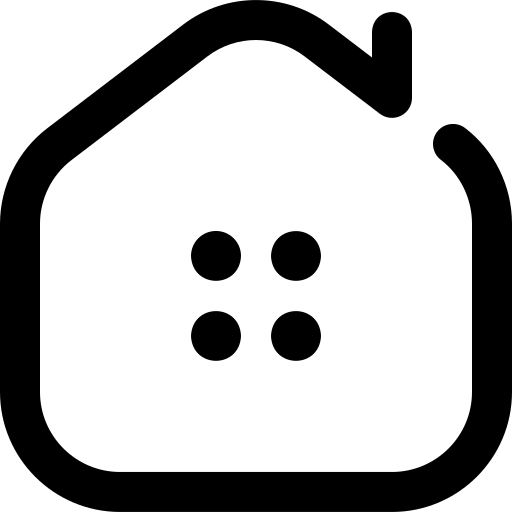
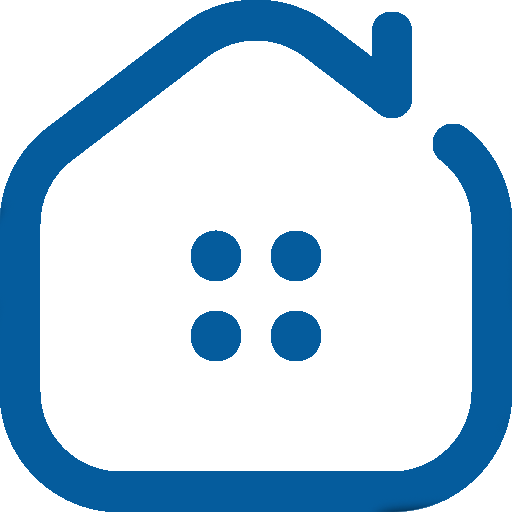
update

diff --git a/public/dist/css/custom.css b/public/dist/css/custom.css
@@ -12,7 +12,7 @@ body{
 }
 .card-header{
     border-radius: 20px 20px 0 0!important;
-    background-color: #189AB4 !important;
+    background-color: #68BBE3 !important;
 }
 
 .img-fluid{
@@ -52,7 +52,7 @@ body{
     width: .5rem !important;
     height: .5rem !important;
     border-radius: 100px !important;
-    background-color: black;
+    background-color: #055C9D !important;
 }
 .nav-active{
     max-height: 25px !important;
@@ -73,4 +73,8 @@ body{
 }
 .hero{
     margin-bottom: -15px !important;
+}
+.back-button{
+    border-radius: 0 15px 15px 0;
+    height: 3rem;
 }

diff --git a/database/seeds/AyatSeeder.php b/database/seeds/AyatSeeder.php
@@ -12,6 +12,7 @@ class AyatSeeder extends Seeder
     public function run()
     {
         DB::table('ayats')->insert([
+            'judul' => "tst",
             'firman' => 'Lorem ipsum dolor sit amet consectetur, adipisicing elit. Voluptatum illo et libero, sunt hic architecto aliquid ipsam cumque modi eveniet aperiam accusantium. Unde eius libero soluta vel suscipit architecto aut.Lorem ipsum dolor sit amet consectetur, adipisicing elit. Voluptatum illo et libero, sunt hic architecto aliquid ipsam cumque modi eveniet aperiam accusantium. Unde eius libero soluta vel suscipit architecto aut.Lorem ipsum dolor sit amet consectetur, adipisicing elit. Voluptatum illo et libero, sunt hic architecto aliquid ipsam cumque modi eveniet aperiam accusantium. Unde eius libero soluta vel suscipit architecto aut.Lorem ipsum dolor sit amet consectetur, adipisicing elit. Voluptatum illo et libero, sunt hic architecto aliquid ipsam cumque modi eveniet aperiam accusantium. Unde eius libero soluta vel suscipit architecto aut.Lorem ipsum dolor sit amet consectetur, adipisicing elit. Voluptatum illo et libero, sunt hic architecto aliquid ipsam cumque modi eveniet aperiam accusantium. Unde eius libero soluta vel suscipit architecto aut.',
             'wadah' => 'nelson@gmail.com'
         ]);

diff --git a/resources/views/profile/index.blade.php b/resources/views/profile/index.blade.php
@@ -1,6 +1,6 @@
 @extends('layout.layout')
 
-@section('content')
+@section('content') 
 
     <div class="container">
         <div class="row">&nbsp;</div>
@@ -13,7 +13,7 @@
                     <div class="col-4"></div>
                     <div class="col-4 2-100">
                         <div class="row">
-                            <img class="col-12 barcode" src="{{asset('assets/img/user.png')}}" alt="">
+                            <img class="col-12 barcode" src="{{asset('assets/img/user-black.png')}}" alt="">
                         </div>
                         <div class="row">
                             <p class="col-12 greeting text-center mt-2 p-0">{{$name}}</p>
@@ -29,7 +29,7 @@
         <hr>
         <div class="row ml-3 mb-3 mt-2">
            
-            <div class="col-2 p-0 m-0"><img class="col-12 icon " src="{{asset('assets/img/user.png')}}" alt=""></div> 
+            <div class="col-2 p-0 m-0"><img class="col-12 icon " src="{{asset('assets/img/user-black.png')}}" alt=""></div> 
             <div class="col-6 p-0"> <a href="{{Route('profile.create')}}" class=""><span class="text-decor-none">Ubah Data Diri</span></a></div> 
            </a>
         </div>       

diff --git a/resources/views/profile/profile.blade.php b/resources/views/profile/profile.blade.php
@@ -25,7 +25,7 @@
         </div>
         
 
-       <form action="{{route('profile.update',$user->id)}}" method="patch">
+       <form action="{{route('profile.update',$user->id)}}" method="put">
         @csrf
             <input type="text" name="name" placeholder="{{$user->name}}" class="form-control mb-3" disabled>
             <input type="text" name="name" placeholder="{{$user->email}}" class="form-control mb-3" disabled>
@@ -33,6 +33,11 @@
                 <input type="text" name="nomortelepon" placeholder= "Nomor Telepon" class="form-control mb-3">
             @else
                 <input type="text" name="nomortelepon" placeholder= "{{$user->nomor_telepon}}" class="form-control mb-3">
+            @endif
+            @if($user->alamat == null)
+                <input type="text" name="alamat" placeholder= "Alamat" class="form-control mb-3">
+            @else
+                <input type="text" name="alamat" placeholder= "{{$user->alamat}}" class="form-control mb-3">
             @endif
             
             <button class="btn btn-primary color-primary">Ubah</button>

diff --git a/resources/views/parts/carousel.blade.php b/resources/views/parts/carousel.blade.php
@@ -2,13 +2,13 @@
     <div id="carouselExampleControls" class="carousel slide h-100" data-ride="carousel">
         <div class="carousel-inner">
             <div class="carousel-item active">
-            <img class="d-block w-100" src="{{asset('assets/img/024-books.png')}}" alt="First slide">
+            <img class="d-block w-100" src="{{asset('assets/img/hero.png')}}" alt="First slide">
             </div>
             <div class="carousel-item">
-            <img class="d-block w-100" src="{{asset('assets/img/024-books.png')}}" alt="Second slide">
+            <img class="d-block w-100" src="{{asset('assets/img/hero.png')}}" alt="Second slide">
             </div>
             <div class="carousel-item">
-            <img class="d-block w-100" src="{{asset('assets/img/024-books.png')}}" alt="Third slide">
+            <img class="d-block w-100" src="{{asset('assets/img/hero.png')}}" alt="Third slide">
             </div>
         </div>
     </div>

diff --git a/resources/views/auth/register.blade.php b/resources/views/auth/register.blade.php
@@ -15,7 +15,13 @@
         <input type="text" name="name" placeholder="Nama" class="form-control mb-3">
         <input type="text" name="email" placeholder="Email Address" class="form-control mb-3">
         <input type="password" name="password" placeholder="Password" class="form-control mb-3">
-        <button class="btn color-primary btn-primary mb-3">Masuk</button>
+        <button class="btn color-primary btn-primary mb-3">Daftar</button>
+        <div class="row">
+        <div class="col-5"></div>
+            <div class="col-7 text-right login-text-help">
+                <a href="{{route('login.index')}}" class="text-decor-none">Sudah punya akun?</a>
+            </div>
+        </div>
     </form>
     <div class="row hero fixed-bottom">
         <img src="{{asset('assets/img/hero.png')}}" alt="">

diff --git a/app/Http/Kernel.php b/app/Http/Kernel.php
@@ -18,6 +18,7 @@ class Kernel extends HttpKernel
         \App\Http\Middleware\CheckForMaintenanceMode::class,
         \Illuminate\Foundation\Http\Middleware\ValidatePostSize::class,
         \App\Http\Middleware\TrimStrings::class,
+        
         \Illuminate\Foundation\Http\Middleware\ConvertEmptyStringsToNull::class,
     ];
 
@@ -51,6 +52,7 @@ class Kernel extends HttpKernel
      * @var array
      */
     protected $routeMiddleware = [
+        'authweb' => \App\Http\Middleware\AuthMiddleware::class,
         'auth' => \App\Http\Middleware\Authenticate::class,
         'auth.basic' => \Illuminate\Auth\Middleware\AuthenticateWithBasicAuth::class,
         'bindings' => \Illuminate\Routing\Middleware\SubstituteBindings::class,

diff --git a/routes/web.php b/routes/web.php
@@ -14,10 +14,14 @@
 Route::get('/', function () {
     return view('welcome');
 });
-Route::resource('/home' , 'HomeController');
-Route::resource('/berita' , 'BeritaController');
-Route::resource('/ayat' , 'AyatController');
-Route::resource('/profile' , 'ProfileController');
+
+Route::group(['middleware' => 'authweb'],function(){
+    Route::resource('/home' , 'HomeController');
+    Route::resource('/berita' , 'BeritaController');
+    Route::resource('/ayat' , 'AyatController');
+    Route::resource('/profile' , 'ProfileController');
+});
+
 
 Route::resource('/login' ,'LoginController');
 Route::resource('/register' ,'RegisterController');

diff --git a/resources/views/ayat/index.blade.php b/resources/views/ayat/index.blade.php
@@ -1,13 +1,14 @@
 @extends('layout.layout')
 
 <div class="container">
-    
-    <li class="nav nav-item">Umum</li>
-    <li class="nav nav-item">BIC</li>
-    <li class="nav nav-item">Youth</li>
+    <div class="row">&nbsp;</div>
+    <h3 class="ml-3 title">Renungan</h3>
+    <div class="row">&nbsp;</div>
     @foreach($datas as $data)
-        <div class="container">
-            {{$data->firman}}
-        </div>
+        <a href="{{route('ayat.show',$data->id)}}" class="card text-decor-none mx-auto mb-3">    
+            <div class="card-body">
+                {{$data->judul}}
+            </div>
+        </a>  
     @endforeach
 </div>

diff --git a/app/Http/Middleware/AuthMiddleware.php b/app/Http/Middleware/AuthMiddleware.php
@@ -1,0 +1,27 @@
+<?php
+
+namespace App\Http\Middleware;
+use Illuminate\Support\Facades\Auth;
+
+use Closure;
+
+class AuthMiddleware
+{
+    /**
+     * Handle an incoming request.
+     *
+     * @param  \Illuminate\Http\Request  $request
+     * @param  \Closure  $next
+     * @return mixed
+     */
+    public function handle($request, Closure $next)
+    {
+        if(Auth::check()){
+            return $next($request);
+        }
+        else{
+            return redirect('/login');
+        }
+        
+    }
+}

diff --git a/app/Http/Controllers/ProfileController.php b/app/Http/Controllers/ProfileController.php
@@ -71,11 +71,12 @@ class ProfileController extends Controller
      */
     public function update(Request $request,$id)
     {
-        $data = $request->input('nomortelepon');
+        $telepon = $request->input('nomortelepon');
+        $alamat = $request->input('alamat'); 
         $update = User::where('id' , $id)->update([
-            'nomor_telepon' => $data,
+            'nomor_telepon' => $telepon,
+            'alamat' => $alamat
         ]);
-return "true";
     }
 
     /**

diff --git a/resources/views/home/index.blade.php b/resources/views/home/index.blade.php
@@ -4,15 +4,14 @@
 
     <div class="container">   
         <div class="row">&nbsp;</div>
-        <div class="col-6">
+        <div class="col-12">
             <span class="title m-0">Hi, <span class="text-color-primary">{{$name}}</span></span>
         </div>
-        <div class="col-4">
-             
-        </div>
+
+        @include('parts.carousel')
         
     </div>
     
    
-    @include('parts.carousel')
+   
 @endsection
